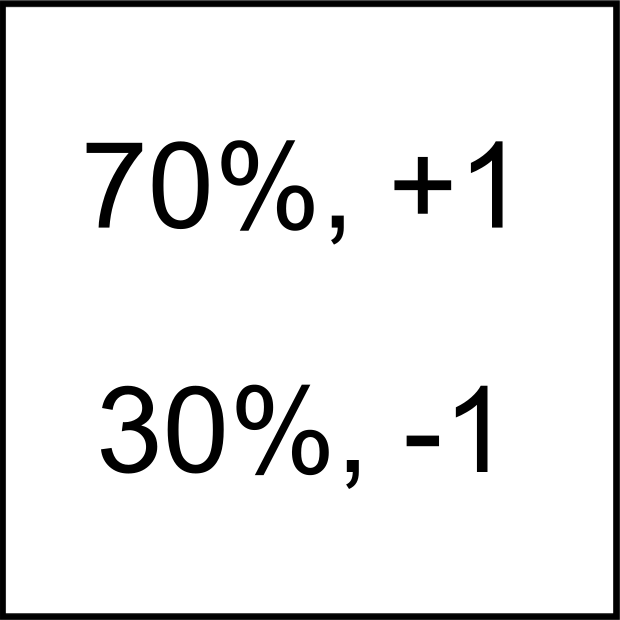
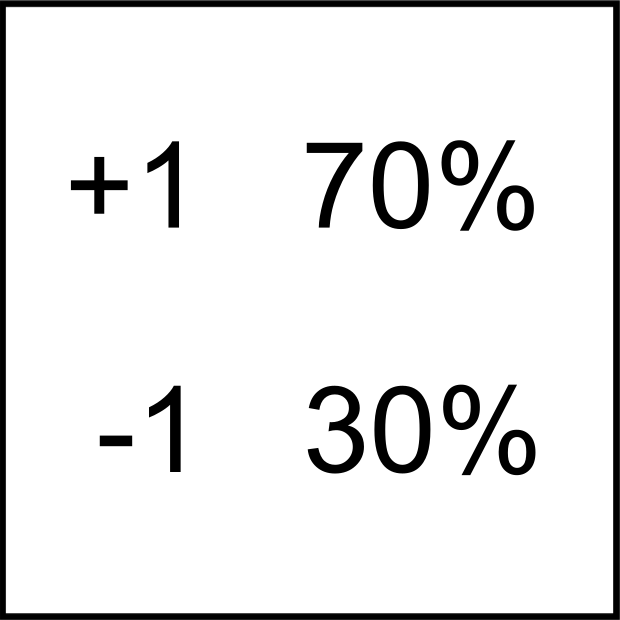
testing new descriptive lotteries

Changed region(s): [[0.1532, 0.6129, 0.8887, 0.7968], [0.0919, 0.2145, 0.8581, 0.3984]]

diff --git a/js/modules/exp.js b/js/modules/exp.js
@@ -899,7 +899,7 @@ export class ExperimentParameters {
         for (let i = 0; i < this.ev.length; i++) {
             let idx = this.ev[i].toString();
             this.images[idx] = new Image();
-            this.images[idx].src = imgPath + "lotteries_new/" + idx + ".png";
+            this.images[idx].src = imgPath + "lotteries_descriptive/" + idx + ".png";
             // if (phase === 1) {
             //     this.images[idx].src = imgPath + "lotteries_new/" + idx + ".png";
             // } else if (phase === 2) {
@@ -910,7 +910,7 @@ export class ExperimentParameters {
             this.images[idx].style.position = "relative";
             this.images[idx].style.top = "0px";
             this.trainingImg[idx] = new Image();
-            this.trainingImg[idx].src = imgPath + "lotteries_new/" + idx + ".png";
+            this.trainingImg[idx].src = imgPath + "lotteries_descriptive/" + idx + ".png";
             // if (phase === 1) {
             //     this.trainingImg[idx].src = imgPath + "lotteries_new/" + idx + ".png";
             // } else if (phase === 2) {

diff --git a/js/app.js b/js/app.js
@@ -272,7 +272,7 @@ function stateMachine({ instructionNum, sessionNum, phaseNum, questNum, exp } = 
     let choice;
 
     switch (phaseNum) {
-
+        // LE ?
         case 1:
             // exp.phase = 1;
             // exp._loadImg(exp.imgPath, exp.nCond, exp.nSession, exp.phase); // Pass 1 for Case 1.
@@ -306,6 +306,7 @@ function stateMachine({ instructionNum, sessionNum, phaseNum, questNum, exp } = 
             choice.run();
             return;
 
+        // ES and EE ?
         case 2:
             // exp.phase = 2;    
             // exp._loadImg(exp.imgPath, exp.nCond, exp.nSession, exp.phase); // Pass 2 for Case 2.
@@ -338,6 +339,7 @@ function stateMachine({ instructionNum, sessionNum, phaseNum, questNum, exp } = 
             choice.run();
             return;
 
+        // SP ?
         case 3:
             // exp.phase = 2;    
             // exp._loadImg(exp.imgPath, exp.nCond, exp.nSession, exp.phase); // Pass 2 for Case 3.
